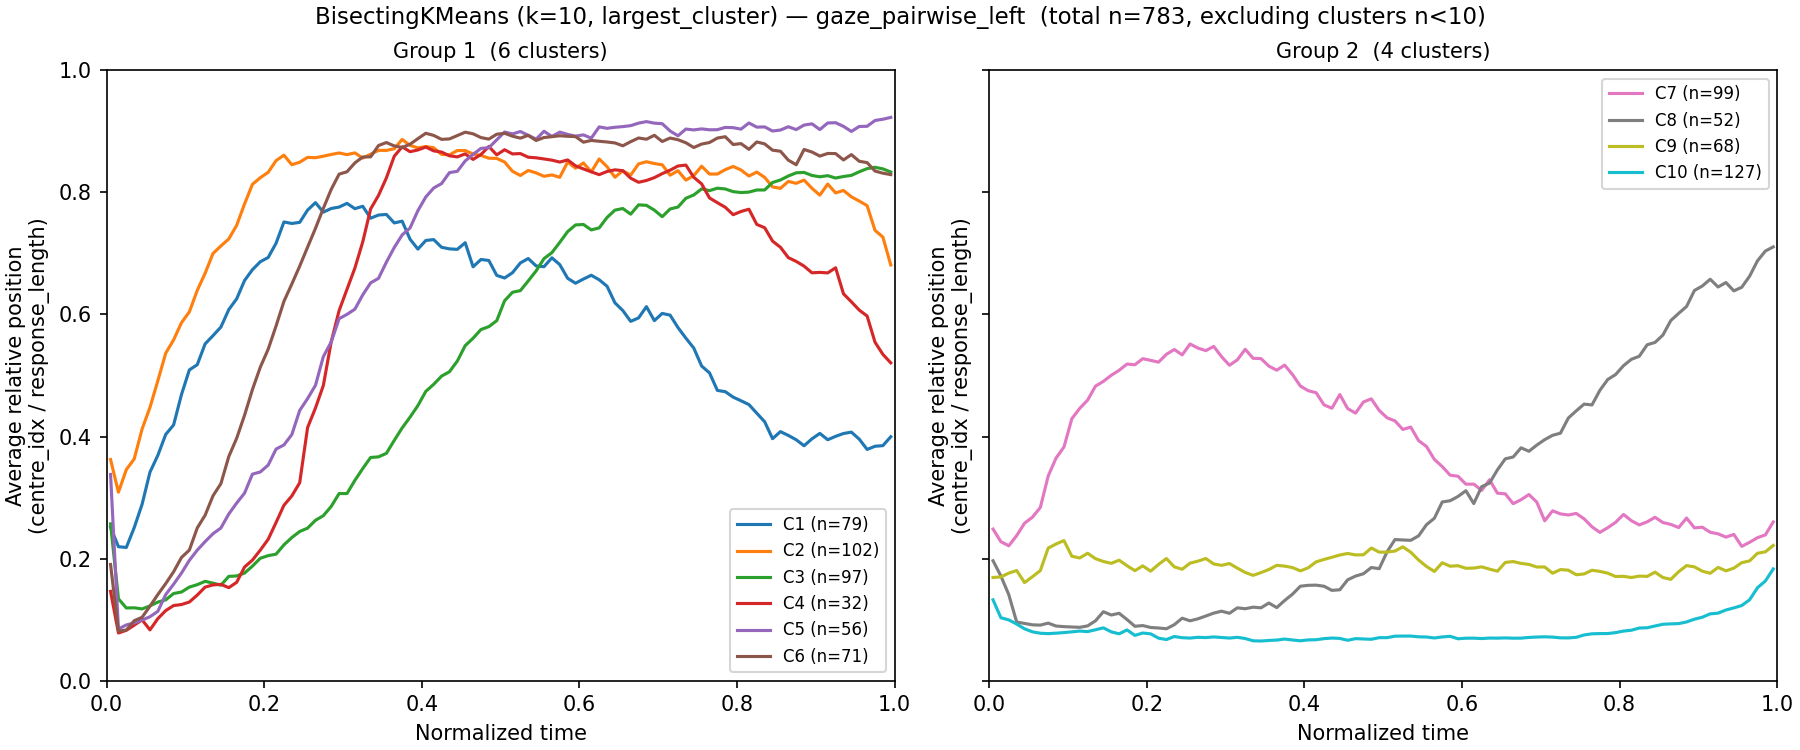
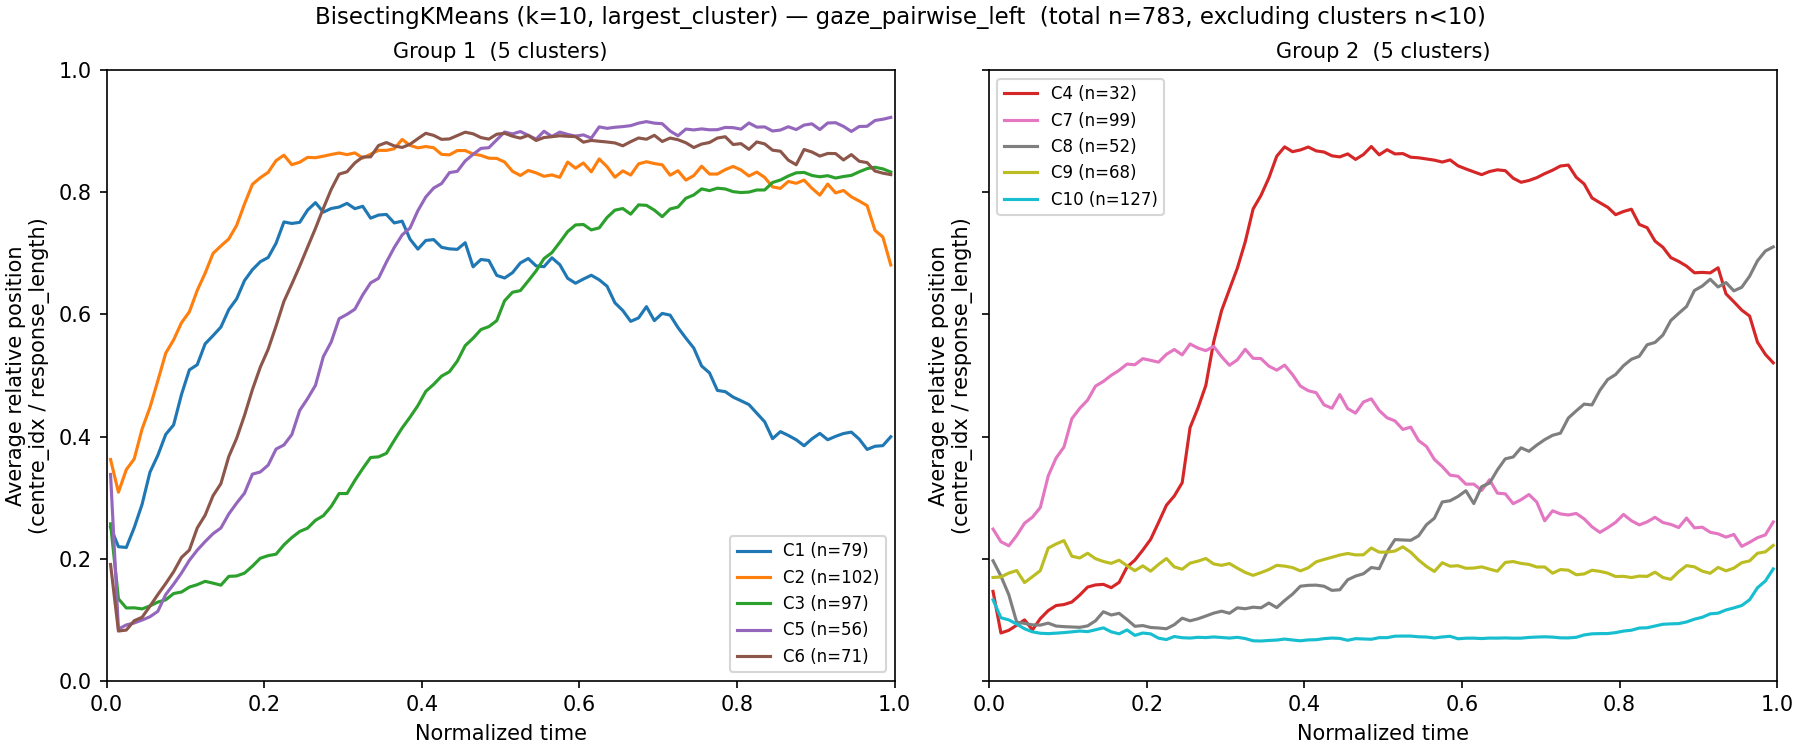
moving cluster to a different group

diff --git a/src/vis/gaze_mouse_correlation.py b/src/vis/gaze_mouse_correlation.py
@@ -36,7 +36,10 @@ GAZE_PATH     = os.path.join(_DATA_DIR, f"user_gazing_time_interp_{_qc}.csv")
 MOUSE_PATH    = os.path.join(_DATA_DIR, f"user_mouse_time_interp_{_qc}.csv")
 PER_QUERY_OUT = os.path.join(_CORR_DIR, f"gaze_mouse_correlation_per_query_{_qc}.csv")
 SUMMARY_OUT   = os.path.join(_CORR_DIR, f"gaze_mouse_correlation_summary_{_qc}.csv")
-PLOT_OUT      = os.path.join(_CORR_DIR, f"gaze_mouse_correlation_{_qc}.png")
+PLOT_OVERALL   = os.path.join(_CORR_DIR, f"gaze_mouse_correlation_overall_{_qc}.png")
+PLOT_BY_LENGTH = os.path.join(_CORR_DIR, f"gaze_mouse_correlation_by_length_{_qc}.png")
+PLOT_BY_SIDE   = os.path.join(_CORR_DIR, f"gaze_mouse_correlation_by_side_{_qc}.png")
+PLOT_PER_USER  = os.path.join(_CORR_DIR, f"gaze_mouse_correlation_per_user_{_qc}.png")
 
 N_POINTS = 100
 POS_COLS = [f"pos_{i}" for i in range(N_POINTS)]
@@ -175,10 +178,8 @@ SIDE_STYLES = {
     "pairwise_right": {"color": "tab:green",  "ls": "-."},
 }
 
-fig, axes = plt.subplots(2, 2, figsize=(14, 10))
-
-# Top-left: overall histogram of Pearson r
-ax = axes[0, 0]
+# Overall histogram of Pearson r
+fig, ax = plt.subplots(figsize=(7, 5))
 ax.hist(results_df["pearson_r"], bins=40, color="steelblue", edgecolor="black", alpha=0.85)
 ax.axvline(0, color="gray", lw=0.8, ls="--")
 ax.axvline(results_df["pearson_r"].mean(), color="red", lw=1.6,
@@ -188,9 +189,13 @@ ax.set_ylabel("Number of queries")
 ax.set_title(f"Overall distribution  (n = {len(results_df)})")
 ax.set_xlim(-1, 1)
 ax.legend()
+fig.tight_layout()
+fig.savefig(PLOT_OVERALL, dpi=150)
+plt.close(fig)
+print(f"Saved overall plot to {PLOT_OVERALL}")
 
-# Top-right: KDE by length category
-ax = axes[0, 1]
+# KDE by length category
+fig, ax = plt.subplots(figsize=(7, 5))
 for cat, style in LEN_STYLES.items():
     vals = results_df[results_df["length_category"] == cat]["pearson_r"].values
     _kde_curve(ax, vals, cat, **style)
@@ -200,9 +205,13 @@ ax.set_ylabel("Density")
 ax.set_title("By response length category")
 ax.set_xlim(-1, 1)
 ax.legend()
+fig.tight_layout()
+fig.savefig(PLOT_BY_LENGTH, dpi=150)
+plt.close(fig)
+print(f"Saved by-length plot to {PLOT_BY_LENGTH}")
 
-# Bottom-left: KDE by side / task type
-ax = axes[1, 0]
+# KDE by side / task type
+fig, ax = plt.subplots(figsize=(7, 5))
 for side, style in SIDE_STYLES.items():
     vals = results_df[results_df["side"] == side]["pearson_r"].values
     _kde_curve(ax, vals, side, **style)
@@ -212,9 +221,13 @@ ax.set_ylabel("Density")
 ax.set_title("By task type (side)")
 ax.set_xlim(-1, 1)
 ax.legend()
+fig.tight_layout()
+fig.savefig(PLOT_BY_SIDE, dpi=150)
+plt.close(fig)
+print(f"Saved by-side plot to {PLOT_BY_SIDE}")
 
-# Bottom-right: histogram of per-user mean Pearson r (diversity)
-ax = axes[1, 1]
+# Histogram of per-user mean Pearson r (diversity)
+fig, ax = plt.subplots(figsize=(7, 5))
 per_user_means = results_df.groupby("user_id")["pearson_r"].mean()
 ax.hist(per_user_means, bins=25, color="seagreen", edgecolor="black", alpha=0.85)
 ax.axvline(0, color="gray", lw=0.8, ls="--")
@@ -225,8 +238,7 @@ ax.set_ylabel("Number of users")
 ax.set_title(f"Per-user diversity  ({len(per_user_means)} users)")
 ax.set_xlim(-1, 1)
 ax.legend()
-
-fig.suptitle("Gaze vs Mouse correlation — relative position over normalized time", fontsize=13)
 fig.tight_layout()
-fig.savefig(PLOT_OUT, dpi=150)
-print(f"Saved visualization to {PLOT_OUT}")
+fig.savefig(PLOT_PER_USER, dpi=150)
+plt.close(fig)
+print(f"Saved per-user plot to {PLOT_PER_USER}")

diff --git a/src/vis/gaze_mouse_kmeans.py b/src/vis/gaze_mouse_kmeans.py
@@ -33,6 +33,8 @@ EXCLUDE_BAD_WORKERS = True   # set False to include all workers
 _qc = "filtered" if EXCLUDE_BAD_WORKERS else "all"
 N_GROUPS = 2        # number of shape-similarity groups for centroid/sample plots
 MIN_CLUSTER_SAMPLES = 10  # clusters smaller than this are excluded from group plots
+# Manual overrides: cluster 1-indexed label -> group 0-indexed.  e.g. {4: 1} moves C4 to Group 2.
+CENTROID_GROUP_OVERRIDES: dict = {4: 1}
 
 # histogram needs a lower k to avoid tiny outlier clusters; time_interp handles k=10 fine
 N_CLUSTERS = 6 if DATA_TYPE == "histogram" else 10
@@ -117,6 +119,11 @@ _n_groups = min(N_GROUPS, len(_valid_idxs))   # can't have more groups than vali
 _centroid_group_labels = KMeans(
     n_clusters=_n_groups, random_state=RANDOM_STATE, n_init=10
 ).fit_predict(centroids[_valid_idxs])
+
+for _c1idx, _tgt_grp in CENTROID_GROUP_OVERRIDES.items():
+    _pos = np.where(_valid_idxs == _c1idx - 1)[0]
+    if len(_pos):
+        _centroid_group_labels[_pos[0]] = _tgt_grp
 
 _sharey = DATA_TYPE == "time_interp"   # histogram groups have very different y ranges
 fig1, axes1 = plt.subplots(1, _n_groups, figsize=(6 * _n_groups, 5),
